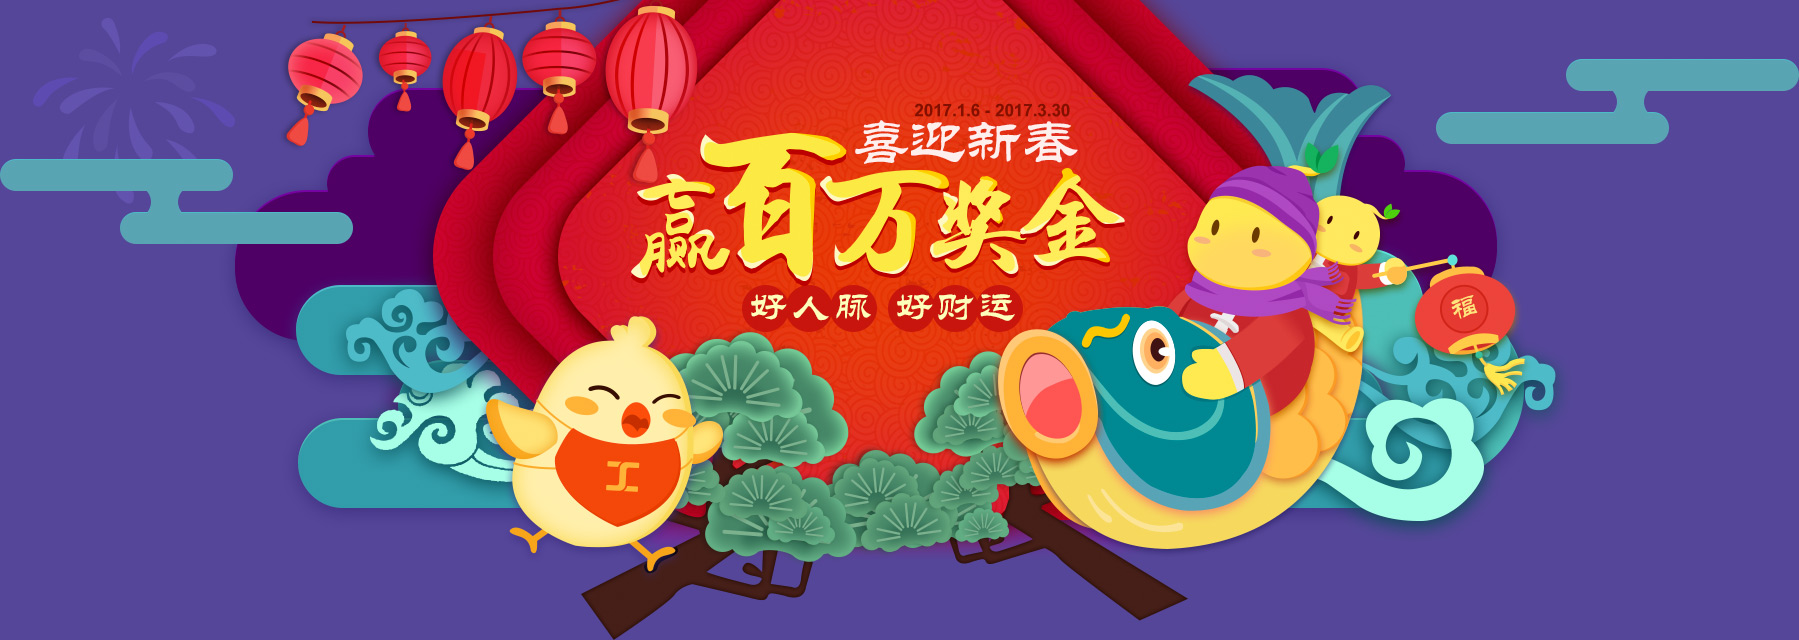
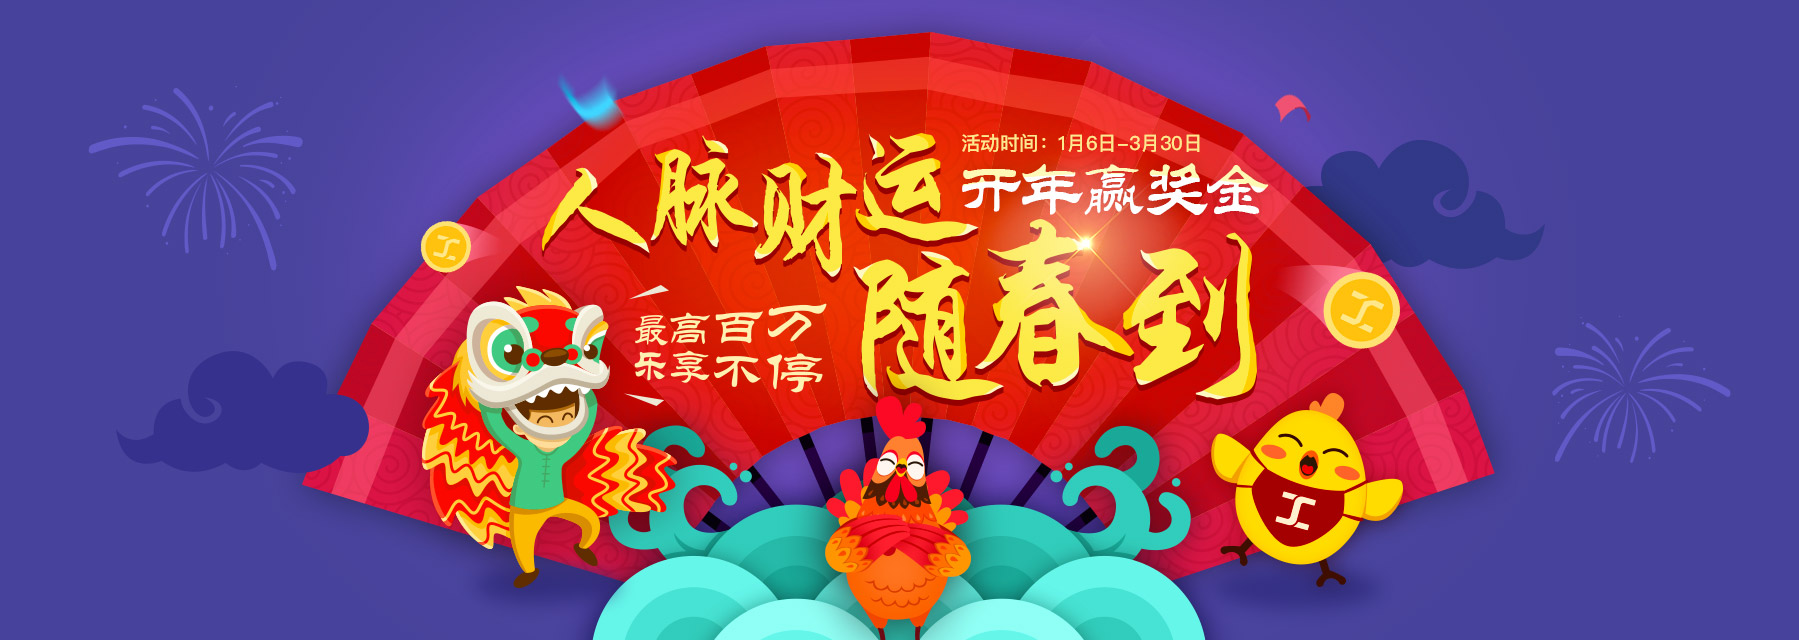
更改banner图，1月3号发版

diff --git a/apps/activity/2017-01-05/less/mobile.less b/apps/activity/2017-01-05/less/mobile.less
@@ -6,18 +6,18 @@
   .mobileContainer{
     width: 100%;
     height: 100%;
-    background: @colorBg;
-    margin-top: 48px;
+    background: #48439d;
+    margin-top: 56px;
 
     .mobileBanner{
       width: 100%;
       height: 490px;
-      background: url('../images/mobileBanner.png') no-repeat;
+      background: url('../images/mobileBanner.jpg') no-repeat;
     }
     .mobileActivityExplain{
       width: 300px;
       height: 72px;
-      margin: 10px auto 60px;
+      margin: 0 auto 60px;
       text-align: center;
       line-height: 72px;
       font-size: @font32;
@@ -669,7 +669,7 @@
     height: 132px;
     background: url("../images/mobilePerson.png") no-repeat;
     position: fixed;
-    top: 720px;
+    top: 710px;
     right: 20px;
     .mobilePersonText{
       width: 710px;

diff --git a/apps/activity/2017-01-05/less/variables.less b/apps/activity/2017-01-05/less/variables.less
@@ -1,4 +1,4 @@
-@colorBg:#554699;
+@colorBg:#47429c;
 @colorBar:#31285e;
 @colorText:#cdc5ff;
 @colorEnd:#5b5f77;
